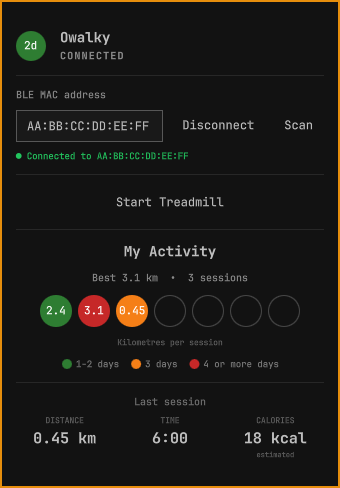
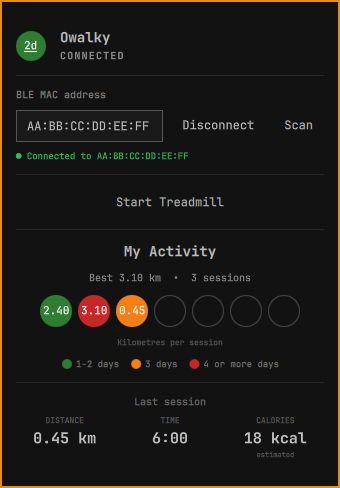
Improve progress ui

diff --git a/Panel.qml b/Panel.qml
@@ -118,6 +118,9 @@ Panel {
     readonly property string barLabel: root.running || root.paused
         ? Progression.formatMeters(root.sessionDistance) : ""
     readonly property bool barShowsDistance: root.barLabel !== ""
+    // The MAC and link controls are setup, not workout UI. Hide them while a
+    // session is running, including the separator above them.
+    readonly property bool connectionAreaVisible: !root.running && !root.sessionActive
 
     // -- untrusted input
     /*
@@ -313,6 +316,7 @@ Panel {
 
     function setSpeed(value) {
         var speed = root.clampSpeed(value)
+        root.speedLoaded = true
         root.currentSpeed = speed
         root.liveSpeed = speed
         root.saveConfig()
@@ -876,10 +880,14 @@ Panel {
                         }
                     }
 
-                    PanelSeparator { foreground: Color.foreground }
+                    PanelSeparator {
+                        visible: root.connectionAreaVisible
+                        foreground: Color.foreground
+                    }
 
                     Column {
                         width: parent.width
+                        visible: root.connectionAreaVisible
                         spacing: Style.space(8)
 
                         Text {

diff --git a/core/Progression.js b/core/Progression.js
@@ -116,15 +116,17 @@ function historyValue(history, index) {
     return statusForDays(Math.floor((curr - prev) / MS_PER_DAY))
 }
 
-// A compact label for a 32px disc: 0.45, 2.4, 12.4, 123. It never grows past
-// four characters, so the text stays inside the circle.
+// A compact label for a 32px disc. It keeps three digits as the number grows:
+// 0.15, 1.50, 10.5, 105, then kilometres with a k suffix.
 function formatMeters(meters) {
     var value = Number(meters)
     if (!isFinite(value) || value <= 0) return "0"
     var km = value / 1000
-    if (km < 1) return km.toFixed(2)
-    if (km < 100) return km.toFixed(1)
-    return String(Math.round(km))
+    if (km < 9.995) return km.toFixed(2)
+    if (km < 99.95) return km.toFixed(1)
+    if (km < 999.5) return String(Math.round(km))
+    if (km < 9995) return (km / 1000).toFixed(1) + "k"
+    return String(Math.round(km / 1000)) + "k"
 }
 
 // The same number with its unit, for the summary line rather than a disc.

diff --git a/README.md b/README.md
@@ -80,6 +80,8 @@ interpreted as anything but an address.
   step buttons move it by 0.1 or 0.5, and the mouse wheel works over the slider. The
   last speed is remembered while stopped. Start uses 1.0 km/h because this pad
   ignores a speed sent with Start; raise it after the belt is running.
+- While a session runs, the panel hides the BLE address and Connect/Scan area so
+  the workout controls and session numbers get the space.
 - The panel shows the live speed reported by the pad, the current state, and the
   recorded activity. Below the treadmill controls, separated by a line, are the
   session's distance in km, its active time and the estimated calories.
@@ -98,7 +100,8 @@ the kilometres already walked.
 
 The panel shows the last workouts as green, amber and red discs, seven to a page.
 Each disc carries the kilometres of that session, and its colour is the gap to the
-session before it:
+session before it. The label keeps three digits as the distance grows: `0.15`,
+`1.50`, `10.5`, `105`, then `1.0k`.
 
 | Colour | Meaning |
 |--------|---------|
